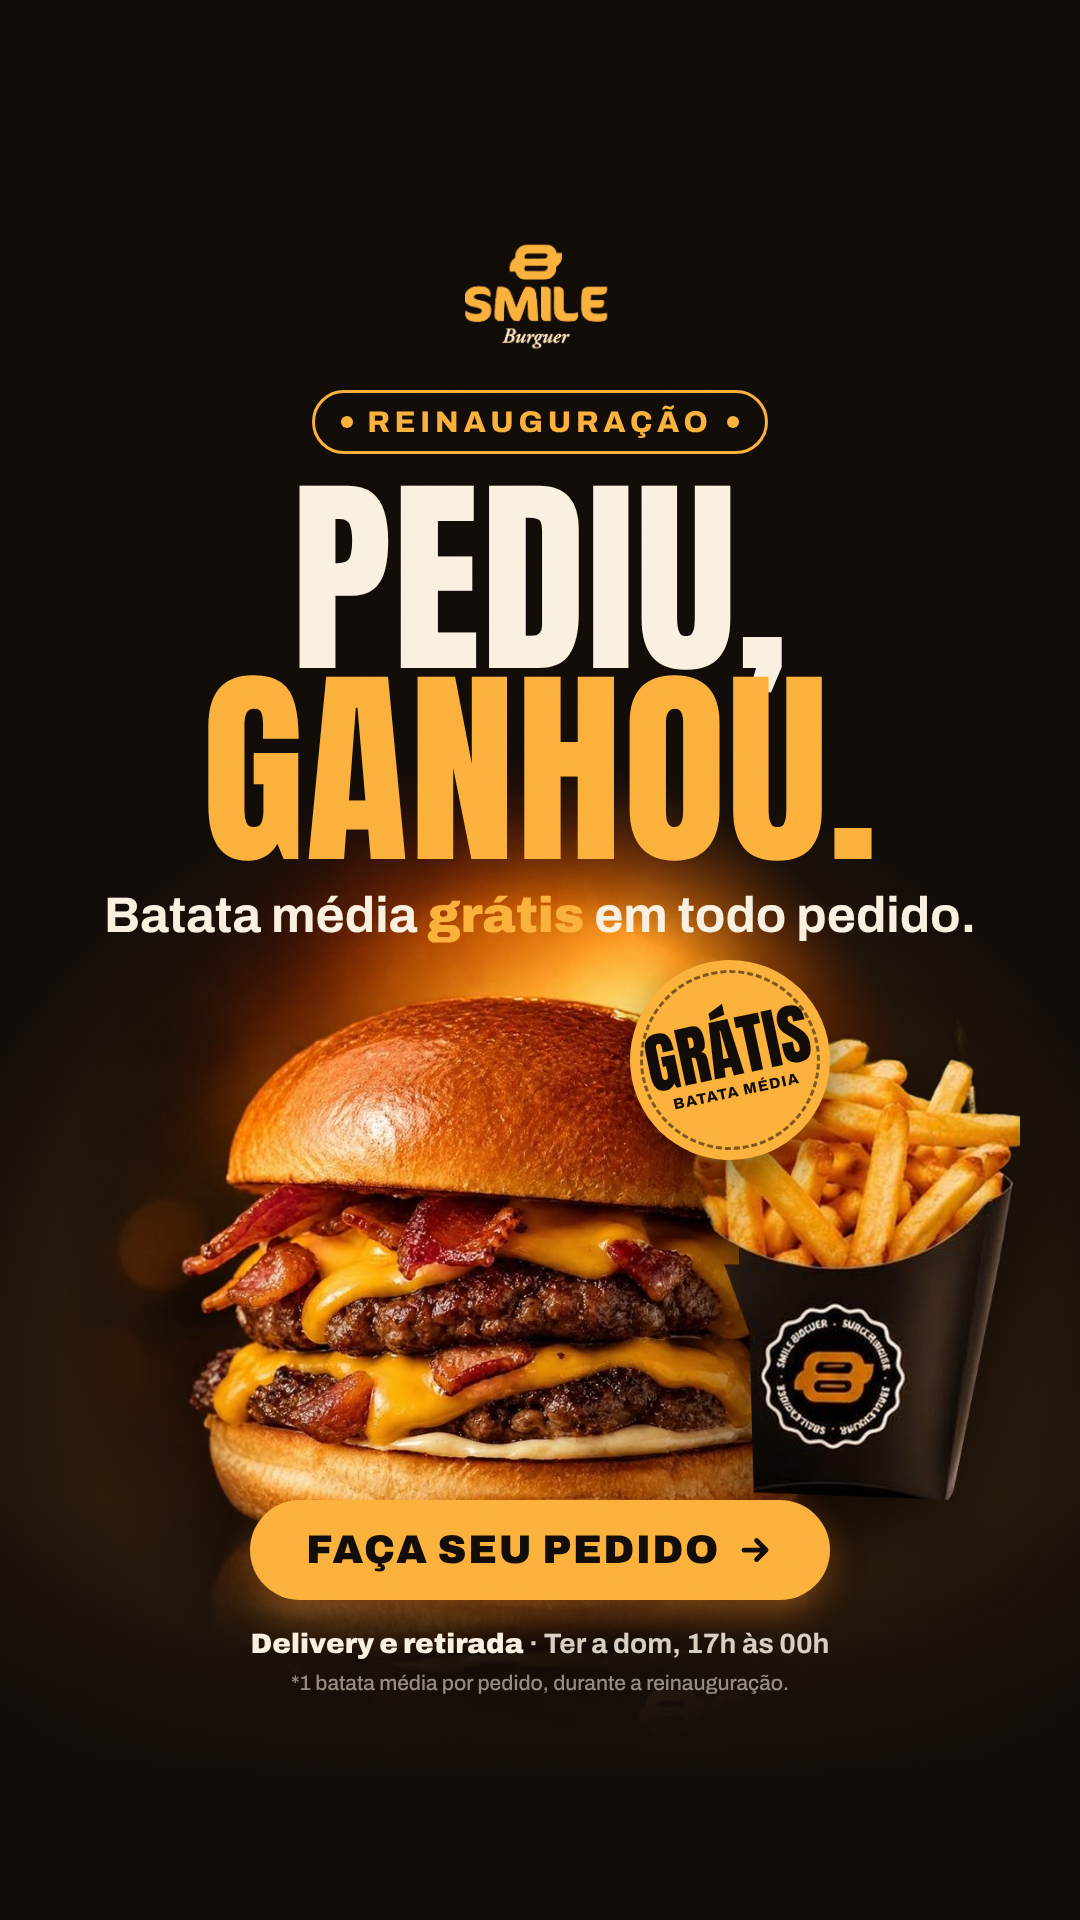
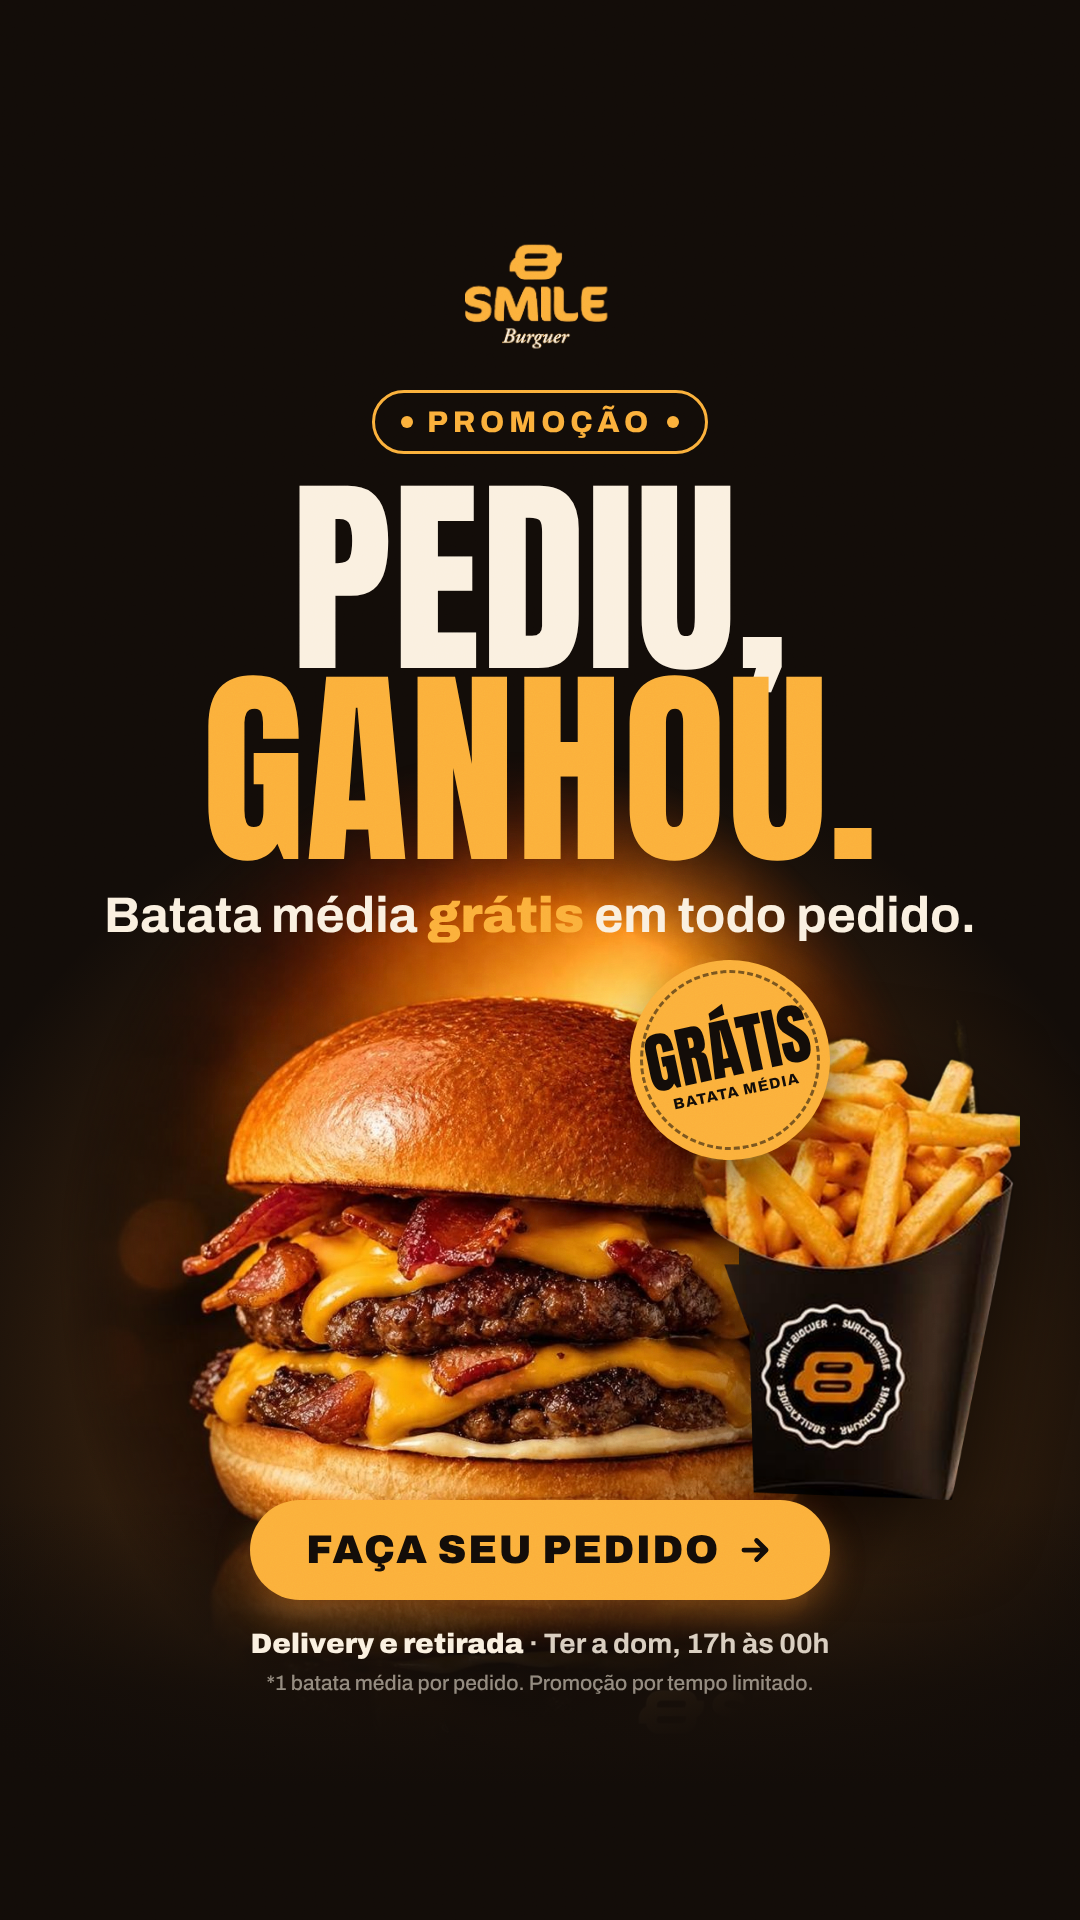
Smile Burguer: remove o termo reinauguração das artes
Claude-Session: https://claude.ai/code/session_016PvmTsQCCMkUfghWeSSe27

Changed region(s): [[0.3056, 0.1875, 0.7028, 0.25], [0.4889, 0.875, 0.7028, 0.9062], [0.3056, 0.875, 0.3972, 0.9062]]

diff --git a/criativos/smile-burguer/fonte/reinauguracao.html b/criativos/smile-burguer/fonte/reinauguracao.html
@@ -2,7 +2,7 @@
 <html lang="pt-BR">
 <head>
 <meta charset="utf-8">
-<title>Smile Burguer — Reinauguração</title>
+<title>Smile Burguer — Pediu, ganhou</title>
 <link href="https://fonts.googleapis.com/css2?family=Anton&family=Archivo:wght@500;700;800;900&family=Archivo+Black&family=Caveat+Brush&display=swap" rel="stylesheet">
 <style>
   :root{
@@ -79,7 +79,7 @@
   <div class="fade-b" style="height:360px"></div>
 
   <img class="logo" src="logo-on-dark.png" style="left:64px;top:58px;width:140px">
-  <div style="position:absolute;right:64px;top:74px"><span class="pill"><i></i>Reinauguração</span></div>
+  <div style="position:absolute;right:64px;top:74px"><span class="pill"><i></i>Promoção</span></div>
 
   <div style="position:absolute;left:64px;right:64px;top:205px">
     <div class="hl" style="font-size:158px">Pediu,<br><span class="o">ganhou.</span></div>
@@ -94,7 +94,7 @@
   <div style="position:absolute;left:64px;right:64px;bottom:58px;display:flex;align-items:flex-end;justify-content:space-between;gap:30px">
     <div>
       <div class="info"><b>Delivery e retirada</b><br>Terça a domingo · 17h às 00h</div>
-      <div class="fine" style="margin-top:14px">*1 batata média por pedido, durante a reinauguração.</div>
+      <div class="fine" style="margin-top:14px">*1 batata média por pedido. Promoção por tempo limitado.</div>
     </div>
     <div class="cta">Peça agora
       <svg viewBox="0 0 24 24" fill="none" stroke="currentColor" stroke-width="3" stroke-linecap="round" stroke-linejoin="round"><path d="M5 12h14M13 6l6 6-6 6"/></svg>
@@ -111,7 +111,7 @@
 
   <div style="position:absolute;left:0;right:0;top:220px;text-align:center">
     <img src="logo-on-dark.png" style="width:150px;display:block;margin:0 auto 34px">
-    <span class="pill"><i></i>Reinauguração<i></i></span>
+    <span class="pill"><i></i>Promoção<i></i></span>
     <div class="hl" style="font-size:212px;margin-top:30px">Pediu,<br><span class="o">ganhou.</span></div>
     <div class="sub" style="font-size:50px;margin-top:22px">Batata média <b>grátis</b> em todo pedido.</div>
   </div>
@@ -126,7 +126,7 @@
       <svg viewBox="0 0 24 24" fill="none" stroke="currentColor" stroke-width="3" stroke-linecap="round" stroke-linejoin="round"><path d="M5 12h14M13 6l6 6-6 6"/></svg>
     </div>
     <div class="info" style="margin-top:26px;font-size:28px"><b>Delivery e retirada</b> · Ter a dom, 17h às 00h</div>
-    <div class="fine" style="margin-top:8px;font-size:21px">*1 batata média por pedido, durante a reinauguração.</div>
+    <div class="fine" style="margin-top:8px;font-size:21px">*1 batata média por pedido. Promoção por tempo limitado.</div>
   </div>
   <div class="grain"></div>
 </div>
@@ -146,7 +146,7 @@
 voltou!</span></div>
 
   <div style="position:absolute;left:92px;right:64px;top:815px">
-    <div class="script" style="font-size:56px;line-height:1">e pra comemorar a reinauguração…</div>
+    <div class="script" style="font-size:56px;line-height:1">e pra comemorar…</div>
     <div class="hl2" style="font-size:98px;margin-top:10px;white-space:nowrap">Pediu, ganhou!</div>
     <div class="sub2" style="margin-top:12px;font-size:40px">Batata média <b>grátis</b> em todo pedido.</div>
     <div style="display:flex;align-items:center;gap:28px;margin-top:30px">
@@ -154,7 +154,7 @@ voltou!</span></div>
       <div style="font:800 25px/1.25 Archivo;color:var(--marrom)">Delivery e retirada<br><span style="font-weight:600">Ter a dom · 17h às 00h</span></div>
     </div>
   </div>
-  <div class="fine" style="position:absolute;left:92px;bottom:122px;font-size:17px">*1 batata média por pedido, durante a reinauguração.</div>
+  <div class="fine" style="position:absolute;left:92px;bottom:122px;font-size:17px">*1 batata média por pedido. Promoção por tempo limitado.</div>
 </div>
 
 <!-- ============ B — STORIES 9:16 (xadrez) ============ -->
